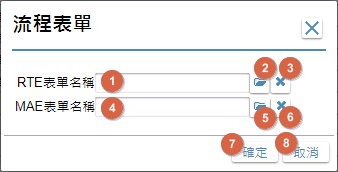
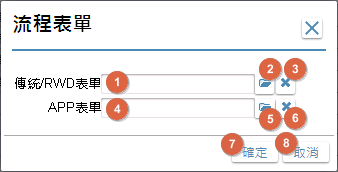
UPDATE11、UPDATE20

Changed region(s): [[0.0296, 0.3198, 0.9172, 0.7849]]

diff --git a/8.10.0/IDE/Specification/Home/FlowForm.md b/8.10.0/IDE/Specification/Home/FlowForm.md
@@ -11,32 +11,32 @@
 * <p id="fieldbreak1" style="color:blue;">基本</p>
 
     ![pic][image_fieldbreak1]
-    * `(1)RTE表單名稱`
+    * `(1)傳統/RWD表單`
         * 用途說明
         * 規格說明
             * 依專案多語顯示表單名稱
             * 不須輸入, 唯讀
-    * `(2)RTE表單開窗`
+    * `(2)傳統/RWD表單開窗`
         * 用途說明
         * 規格說明
             * 開窗[單據報表清單][link_ListFormReport], 限定: 挑選非APP表單,  回傳並顯示: 表單名稱
-    * `(3)RTE表單清除`
+    * `(3)傳統/RWD表單清除`
         * 用途說明
         * 規格說明
-            * 清空`(1)RTE表單名稱`
-    * `(4)MAE表單名稱`
+            * 清空`(1)傳統/RWD表單`
+    * `(4)APP表單名稱`
         * 用途說明
         * 規格說明
             * 依專案多語顯示表單名稱
             * 不須輸入, 唯讀
-    * `(5)MAE表單開窗`
+    * `(5)APP表單開窗`
         * 用途說明
         * 規格說明
             * 開窗[單據清單][link_ListFormReport], 限定: 挑選APP表單,  回傳並顯示: 表單名稱
-    * `(6)MAE表單清除`
+    * `(6)APP表單清除`
         * 用途說明
         * 規格說明
-            * 清空`(4)MAE表單名稱`
+            * 清空`(4)APP表單名稱`
     * `(7)確定`
         * 用途說明
         * 規格說明

diff --git a/8.10.0/IDE/Specification/OADisplayEmbed/MAP.md b/8.10.0/IDE/Specification/OADisplayEmbed/MAP.md
@@ -14,7 +14,7 @@
 	        * 下拉選項 地址/經緯度, 預設:地址; 不允空白
     * `(2)顯示地標符號`
         * 用途說明
-            在地圖是否出現指定位置的地標圖示
+            * 在地圖是否出現指定位置的地標圖示
         * 規格說明
 	        * 預設勾選
     * `(3)位置點數`
